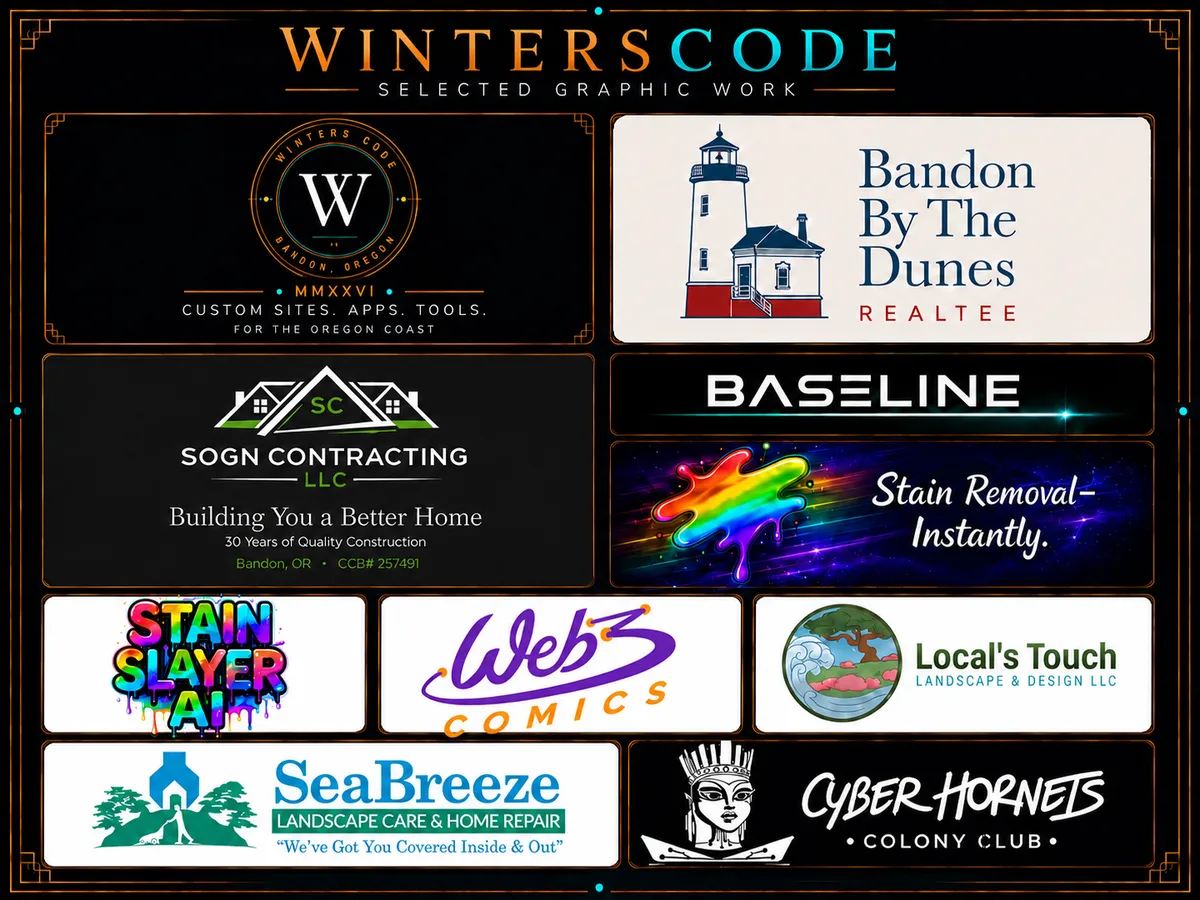
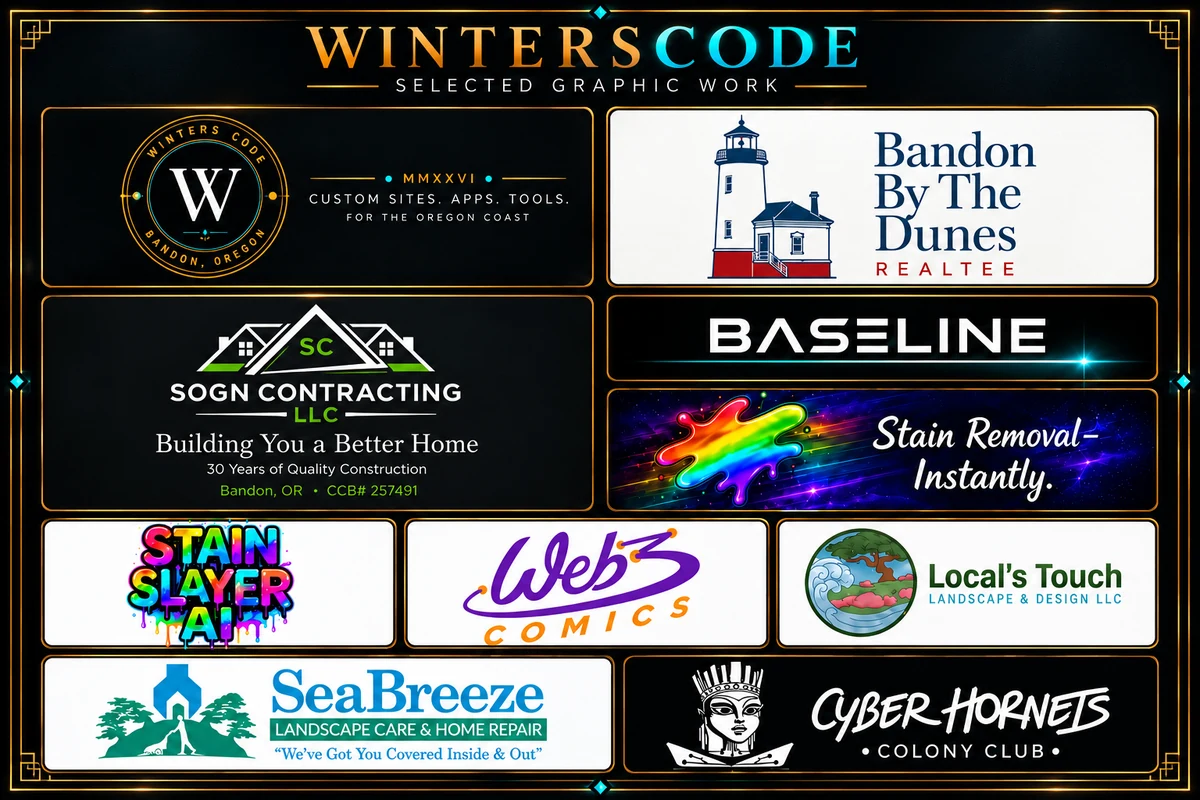
the new graphic board replaces the old one, and the homepage grid goes to seven

diff --git a/src/lib/portfolio.ts b/src/lib/portfolio.ts
@@ -485,10 +485,12 @@ export const portfolio: PortfolioItem[] = [
     order: 1,
     published: true,
     image: {
-      src: '/work/graphic-work-800.webp',
+      src: '/work/graphic-work-1200.webp',
+      srcSmall: '/work/graphic-work-800.webp',
+      srcXSmall: '/work/graphic-work-480.webp',
       alt: 'A grid of selected logo and brand work by Winters Code, including wordmarks, emblems, and full brand marks for a range of businesses.',
-      width: 800,
-      height: 600,
+      width: 1200,
+      height: 800,
     },
     details: [
       {
